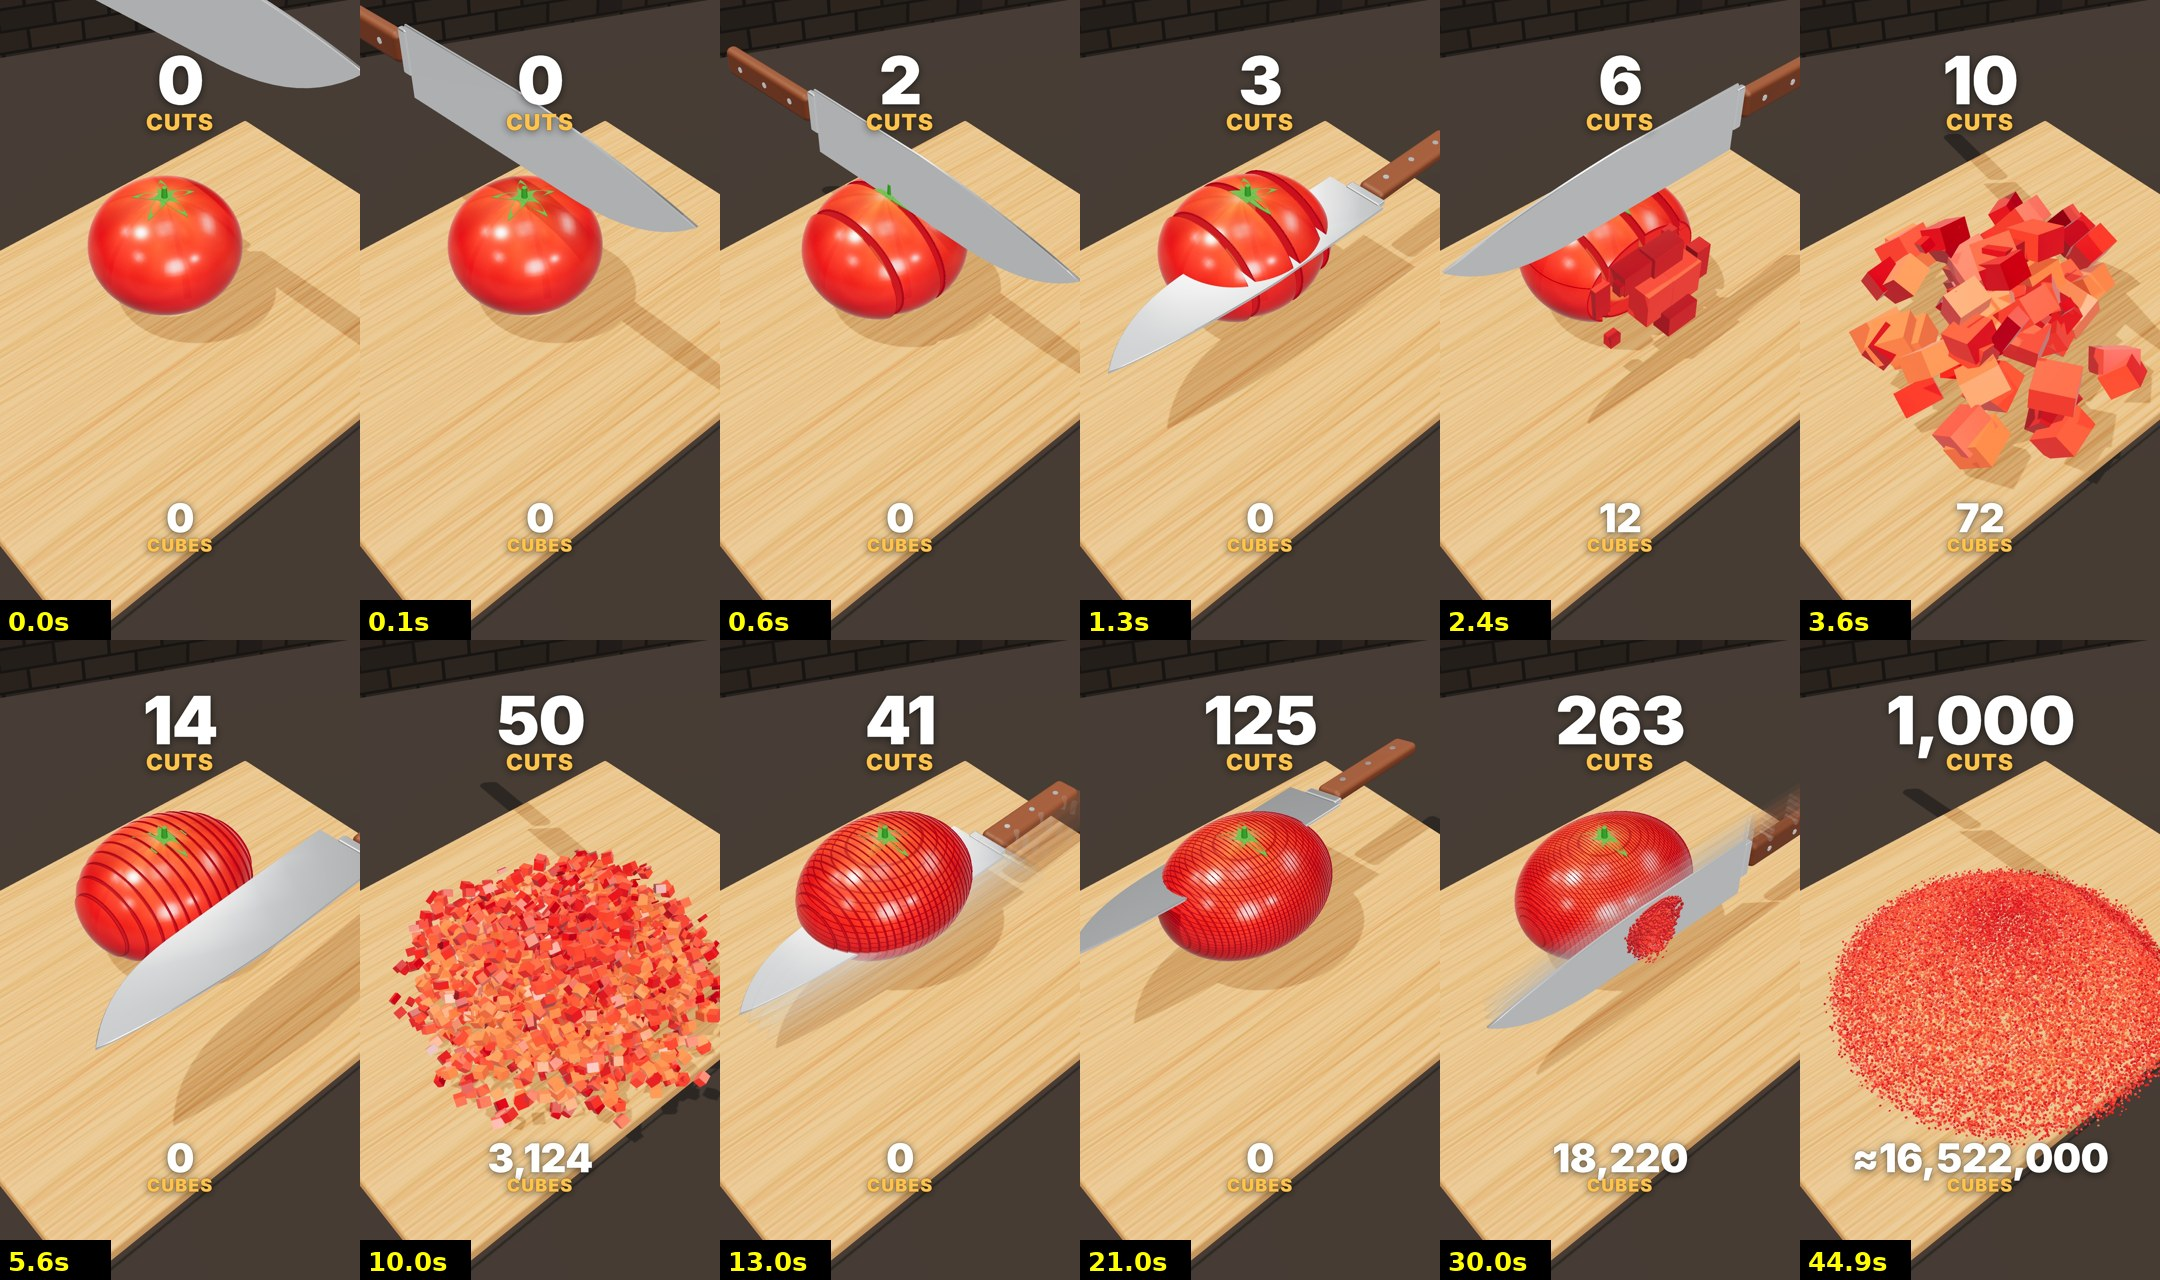
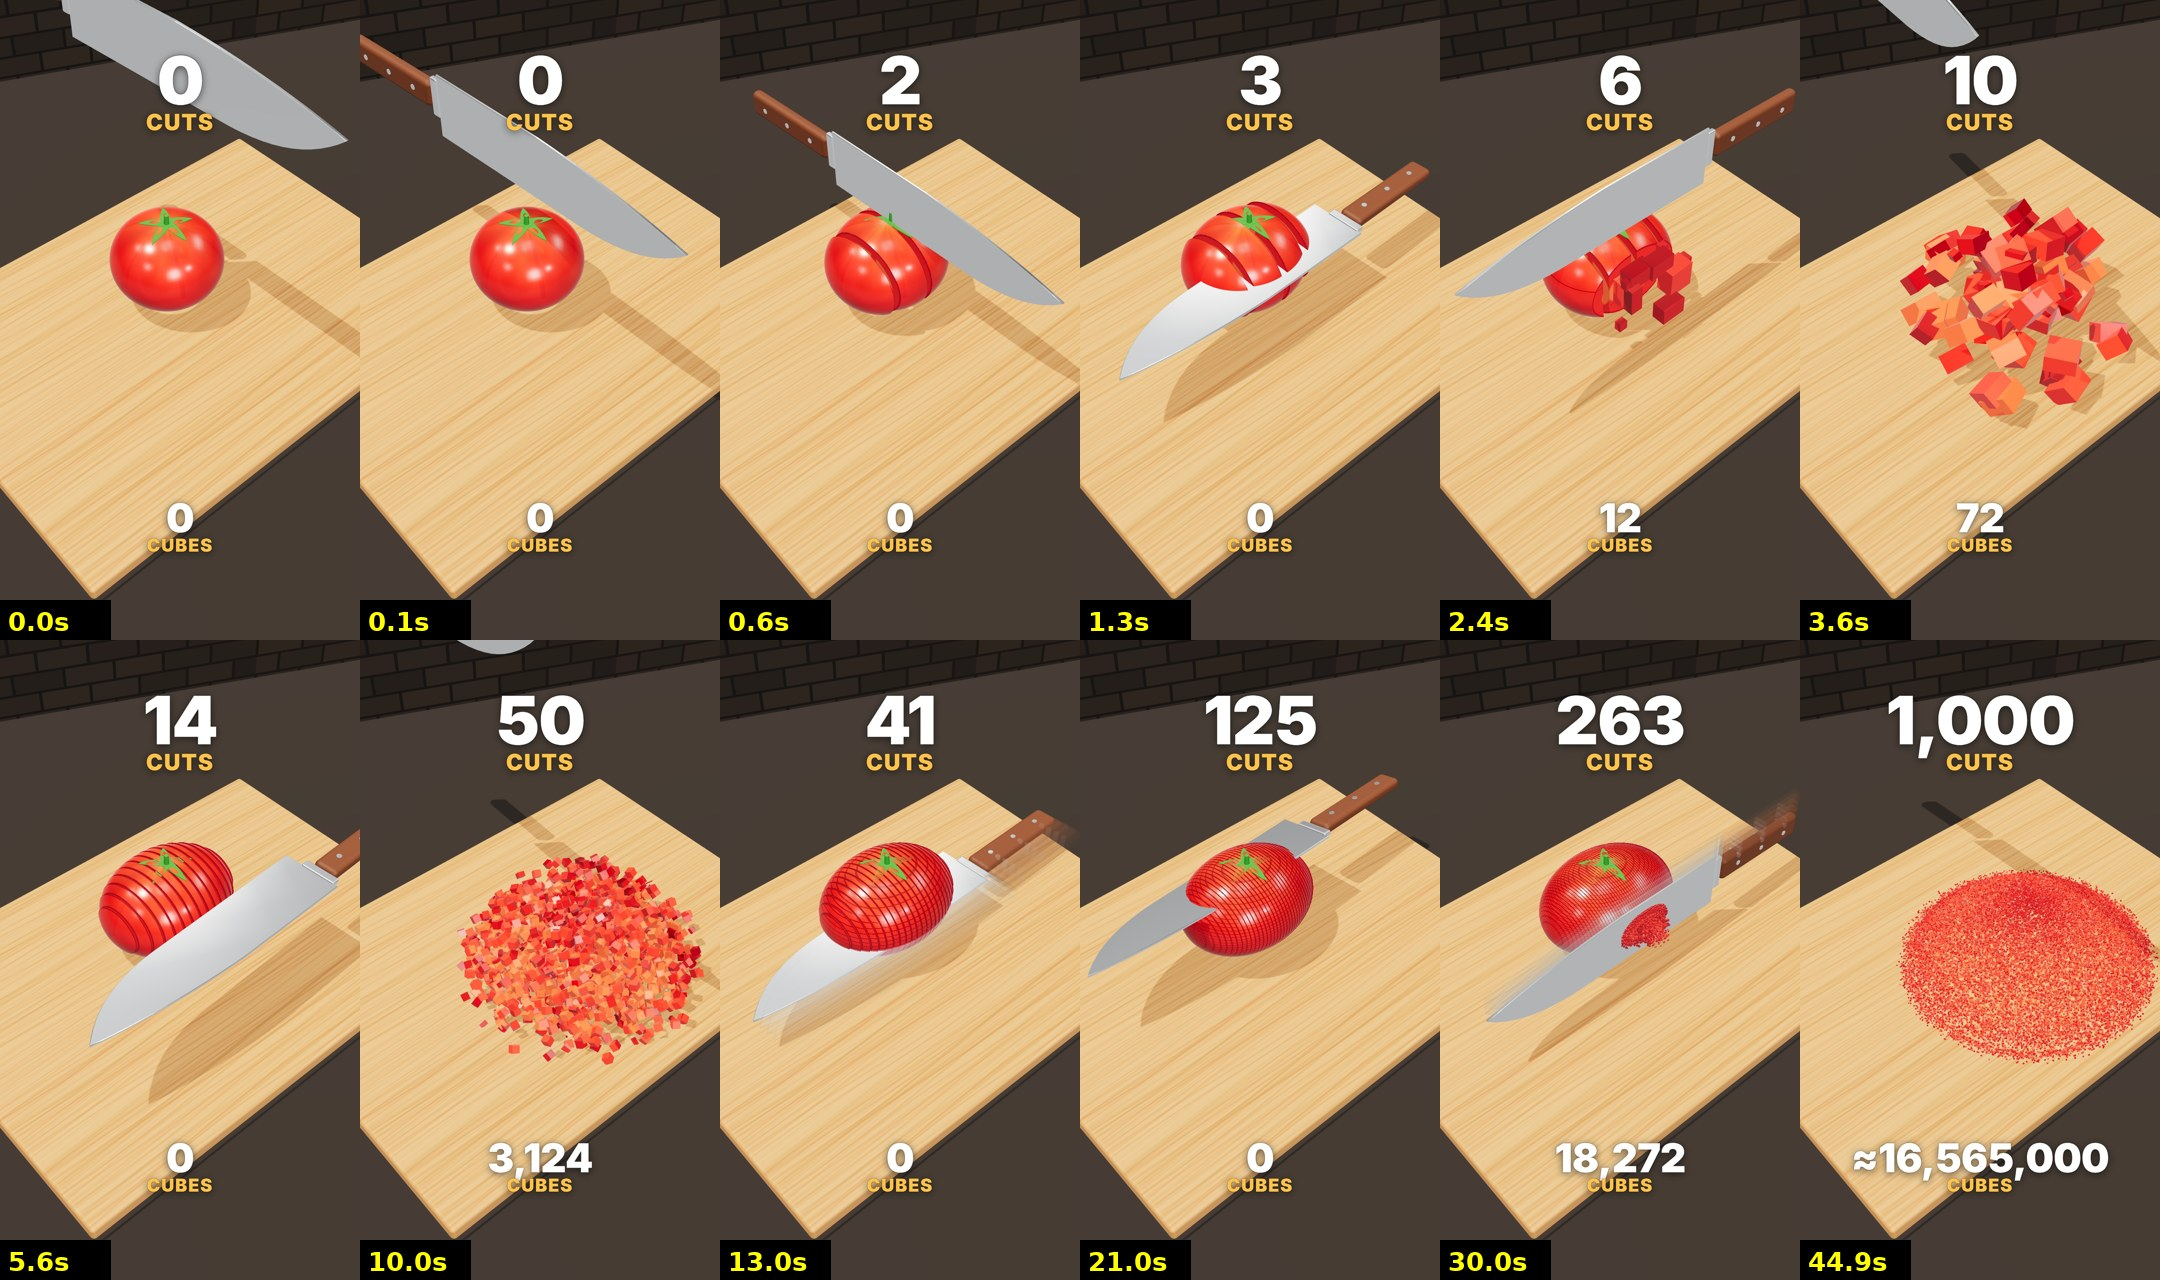
Tomato v2 on the coconut settings: coconut size and camera, every slice opens on its own cut (no grouped jumps), coconut cube sizes and pile
Claude-Session: https://claude.ai/code/session_01Ro5VQJpaLhF8Rr21k8EMLG

diff --git a/offthebooks/satisfying/tomato.html b/offthebooks/satisfying/tomato.html
@@ -24,7 +24,7 @@ import { mergeGeometries } from 'three/addons/utils/BufferGeometryUtils.js';
 const W = 1080, H = 1920, FPS = 30;
 // red onion: a slightly squat ellipsoid standing on its root, papery neck on top. Written in the same terms as the star fruit:
 // along x the radius follows PROF, around x the cross-section is the ellipse RYE × RZE (STAR = its radius / RS).
-const RXE = 1.45, RYE = 1.16, RZE = 1.45;          // a ripe round tomato, a little flattened
+const RXE = 1.22, RYE = 1.0, RZE = 1.22;           // a ripe round tomato, a little flattened (coconut size: it must not look stretched)
 const RX = RXE, RS = Math.max(RYE, RZE), YC = RYE, RY = RYE, RZ = RZE;
 const STAR = th => 1 / Math.sqrt((Math.cos(th) / RYE) ** 2 + (Math.sin(th) / RZE) ** 2) / RS;   // th from straight up, towards +z
 const PROF = u => Math.sqrt(Math.max(0, 1 - u * u));
@@ -42,7 +42,7 @@ const near = (a0, a1, c) => c < a0 ? a0 - c : c > a1 ? c - a1 : 0;     // distan
 // lengthwise slices really come apart and stay apart; on the crosswise pass every freed row tips over as cubes.
 const PLAN = [[10, 2.4], [50, 5.0], [100, 5.6], [250, 6.6], [500, 7.4], [1000, 8.4]];   // brisk: viewers leave when the cuts are slow
 // drawn cube size per round (round 10: the real pieces): every round clearly smaller than the one before
-const SIZE = [0, .16, .105, .068, .046, .032];      // the onion is big: slightly larger cubes keep the counts renderable
+const SIZE = [0, .16, .1, .065, .042, .027];        // the coconut's cube sizes
 const IDLE = .12, TURN = .4, HOLD = .45, LAST_HOLD = 1.9;       // ~0.5 s of quiet between rounds
 const ROUNDS = []; let acc = 0;
 PLAN.forEach(([n, w], i) => {
@@ -103,7 +103,7 @@ r3.toneMapping = THREE.ACESFilmicToneMapping; r3.toneMappingExposure = 1.0; r3.o
 document.getElementById('wrap').prepend(r3.domElement);
 const scene = new THREE.Scene(); scene.background = new THREE.Color(0x15100c);
 scene.environment = new THREE.PMREMGenerator(r3).fromScene(new RoomEnvironment(), .04).texture; scene.environmentIntensity = .55;
-const BASE_FOV = 41, LOOK = new THREE.Vector3(0, 0, .9), CAM = LOOK.clone().add(new THREE.Vector3(-4.2, 15.2, 13.0).multiplyScalar(.8));
+const BASE_FOV = 41, LOOK = new THREE.Vector3(0, 0, .9), CAM = LOOK.clone().add(new THREE.Vector3(-4.2, 15.2, 13.0).multiplyScalar(.9));
 const cam = new THREE.PerspectiveCamera(BASE_FOV, W / H, .1, 200); cam.position.copy(CAM); cam.lookAt(LOOK);
 const rig = new THREE.Group(); rig.rotation.y = .44; scene.add(rig);
 
@@ -277,7 +277,7 @@ const neckGeo = (() => { const parts = [];
   const st = new THREE.CylinderGeometry(.045, .06, .22, 10); st.translate(0, 2 * RYE + .1, 0); parts.push(st);
   return mergeGeometries(parts.map(g => g.toNonIndexed ? (g.index ? g.toNonIndexed() : g) : g)); })();
 const rootGeo = new THREE.BufferGeometry();
-const SLABS = 64;                                                     // slice groups drawn as separate meshes
+const SLABS = 100;                                                    // every slice is its own mesh and opens on its own cut (as in the coconut)
 const ringGeo = new THREE.CylinderGeometry(1, 1, 1, 128, 1, true); ringGeo.rotateZ(-Math.PI / 2);   // vertical cut line (around x)
 const ringGeoH = new THREE.CylinderGeometry(1, 1, 1, 128, 1, true);                       // horizontal cut line (around y)
 const boxGeo = new THREE.BoxGeometry(1, 1, 1);
@@ -387,7 +387,7 @@ function prepCells(r) {
   const all = r.cells.flat(), N = all.length;
   const vol = all.reduce((v, c) => v + c.sx * c.sy * c.sz, 0) / .7;
   // a low, rounded mound (about 33°, like real chopped pieces), not a tall sharp cone
-  const SLOPE = .62, R = Math.min(3.1, Math.cbrt(3 * vol / (Math.PI * SLOPE * .8))), H = R * SLOPE, CX = -.85, CZ = RZ * .9 + .3;
+  const SLOPE = .62, R = Math.min(3.1, Math.cbrt(3 * vol / (Math.PI * SLOPE * .8))), H = R * SLOPE, CX = -.1, CZ = RZ * .9 + .35;
   const prof = (rho, f) => { const q = rho / (R * f); return q >= 1 ? 0 : H * f * (1 - Math.pow(q, 1.6)); };   // surface height of the mound of scale f
   let k = 0;
   for (const row of r.cells) {
